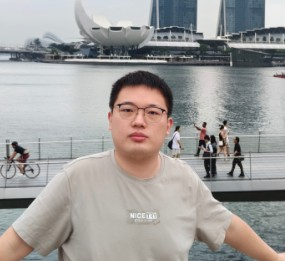
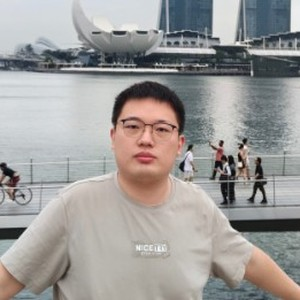
Update homepage news, research interests, awards and services
News bar now announces the NeurIPS 2026 acceptance. Research Interests reduced to AI Infra. Added 2026 ACL SAC Highlight Award and 2023 China Overseas Talents Program with distinct badge colors, plus IEEE TCC Associate Editor 2025-Now under Chairing. Refreshed member photos and dropped unreferenced book/project images.

diff --git a/_pages/about.md b/_pages/about.md
@@ -68,9 +68,11 @@ redirect_from:
   font-weight: 500;
   vertical-align: middle;
 }
-.ab-nsf  { background: #dbeafe; color: #1e40af; }
-.ab-ieee { background: #fef3c7; color: #92400e; }
-.ab-odu  { background: #dcfce7; color: #166534; }
+.ab-nsf   { background: #dbeafe; color: #1e40af; }
+.ab-nsfcp { background: #ede9fe; color: #5b21b6; }
+.ab-ieee  { background: #fef3c7; color: #92400e; }
+.ab-odu   { background: #dcfce7; color: #166534; }
+.ab-acl   { background: #ffe4e6; color: #9f1239; }
 
 .service-cols { display: grid; grid-template-columns: 1fr 1fr; gap: 1rem; }
 .service-block .stitle {
@@ -112,7 +114,7 @@ He is the recipient of the NSF CRII Award in 2019 and NSF CAREER Award in 2021.
 
 <div class="news-bar">
   <span class="news-icon">📢</span>
-  <p><strong>New:</strong> Two papers accepted at ECCV 2026 — Vision-TTT and AEGIS. Double at ACL 2026 selected as <strong>Oral &amp; Best Paper Candidate</strong>. Congratulations to all students!</p>
+  <p><strong>New:</strong> System-Level LLM Attack Accepted at NeurIPS 2026 ! Congrats to Tianyi and Huawei !</p>
 </div>
 
 <div class="section-label">Research Interests</div>
@@ -120,14 +122,15 @@ He is the recipient of the NSF CRII Award in 2019 and NSF CAREER Award in 2021.
 <div class="interest-card">
   <span class="ic-icon">🧠</span>
   <div>
-    <div class="ic-label">LLM Efficiency and Security</div>
-    <div class="ic-sub">Speculative decoding, inference acceleration, adversarial robustness, LLM safety</div>
+    <div class="ic-label">AI Infra</div>
   </div>
 </div>
 
 <div class="section-label">Awards</div>
 
 <div class="award-list">
+  <div class="award-row"><span class="award-year">2026</span><span>ACL SAC Highlight Award<span class="award-badge ab-acl">ACL</span></span></div>
+  <div class="award-row"><span class="award-year">2023</span><span>China Overseas Talents Program<span class="award-badge ab-nsfcp">NSFC</span></span></div>
   <div class="award-row"><span class="award-year">2021</span><span>NSF CAREER Award<span class="award-badge ab-nsf">NSF</span></span></div>
   <div class="award-row"><span class="award-year">2021</span><span>Distinguished Research Award, ODU<span class="award-badge ab-odu">ODU</span></span></div>
   <div class="award-row"><span class="award-year">2020</span><span>Richard Cheng Research Innovation Award, ODU<span class="award-badge ab-odu">ODU</span></span></div>
@@ -141,6 +144,7 @@ He is the recipient of the NSF CRII Award in 2019 and NSF CAREER Award in 2021.
   <div class="service-block">
     <div class="stitle">Chairing</div>
     <div class="tag-list">
+      <span class="tag">IEEE Transactions on Cloud Computing — Associate Editor 2025–Now</span>
       <span class="tag hl">ACM SenSys 24 — Finance Chair</span>
       <span class="tag hl">ICNC 23 — ECB Co-Chair</span>
     </div>
